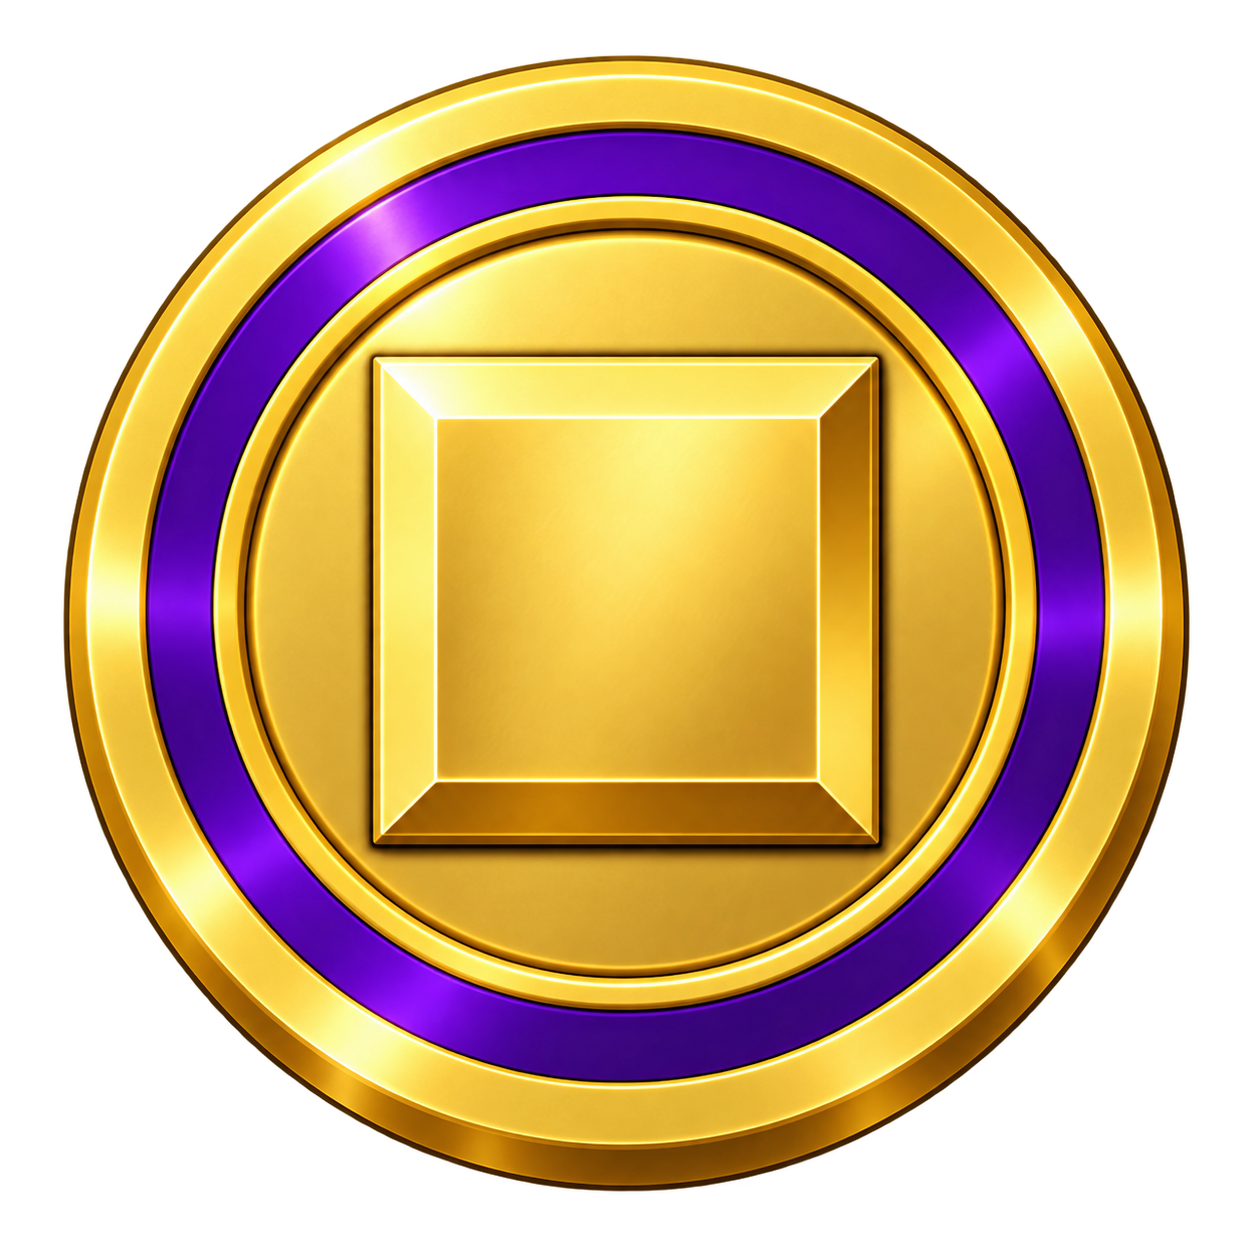
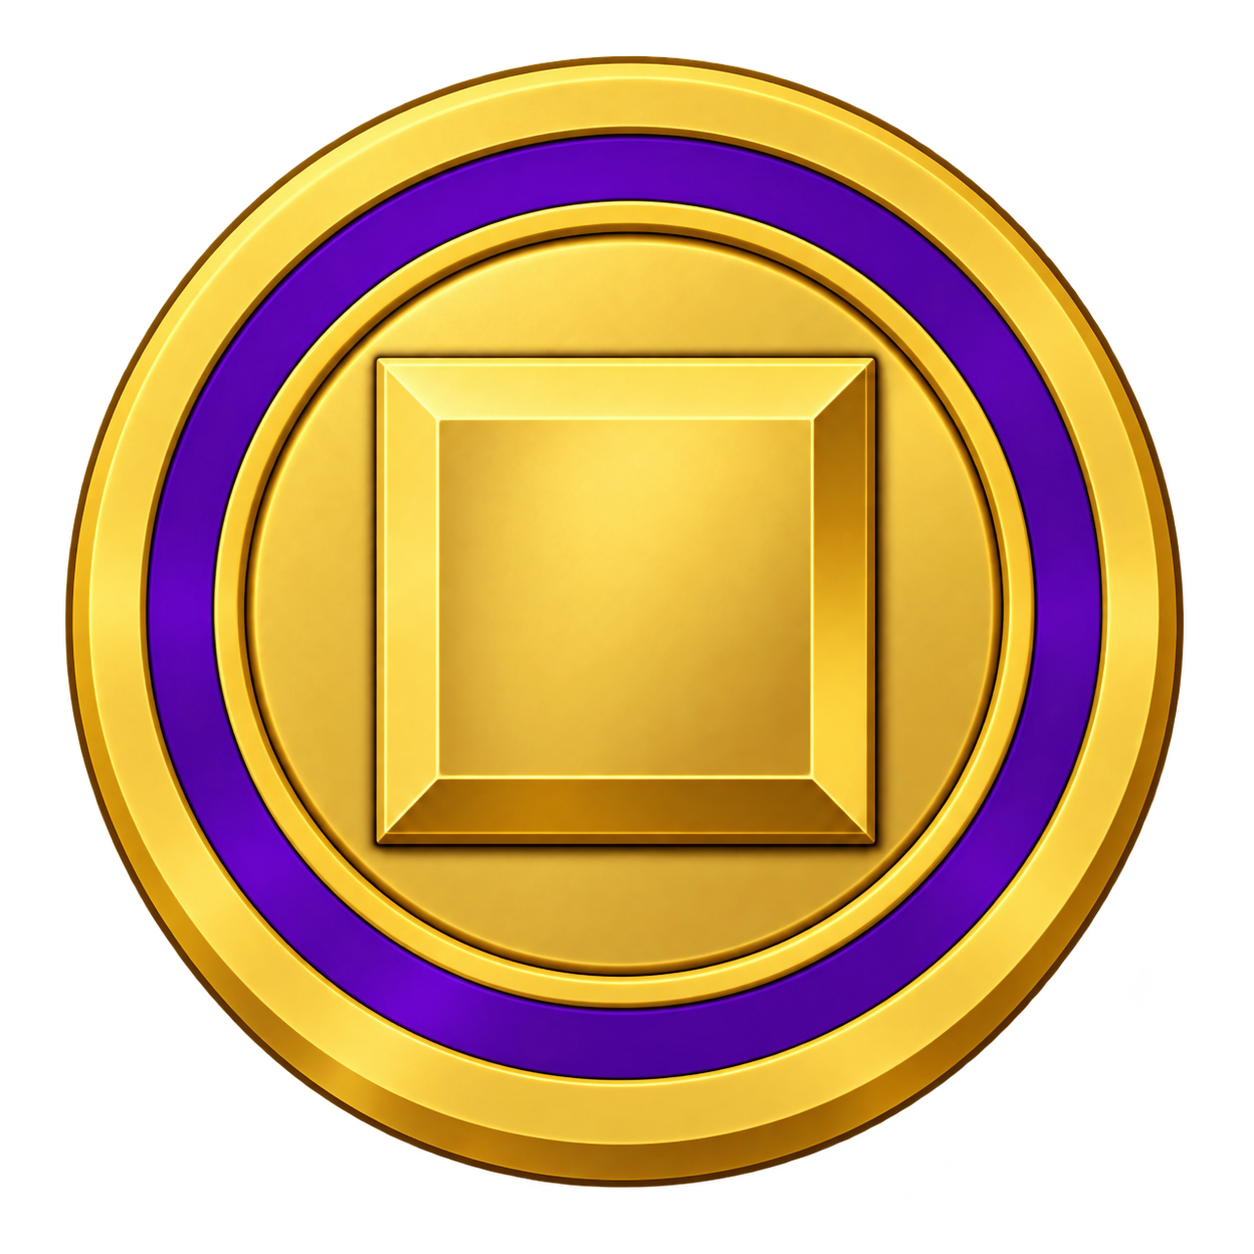
Soften highlights on small gold and silver coins

Changed region(s): [[0.0311, 0.0311, 0.9641, 0.9641], [0.2177, 0.7464, 0.2488, 0.7775]]

diff --git a/README.md b/README.md
@@ -48,7 +48,7 @@ bun test
 Review the three sizes on Admin's `/system/resources` stand. Commit both the
 source and generated AVIFs with the cache, tag the package, then update its
 exact tag in Application and Admin. Both clients only copy ready-to-use assets.
-Gold and Silver use dedicated, simpler `tiny` and `small` AVIFs; their approved
+Gold and Silver use dedicated, simpler `tiny` and matte `small` AVIFs; their approved
 large coin artwork remains in the legacy `file` slot. For an existing legacy
 entry, `file` can coexist with `sources` for the other size slots. Attribute Points
 currently have only the flat cyan chevrons, so larger contexts use those until
